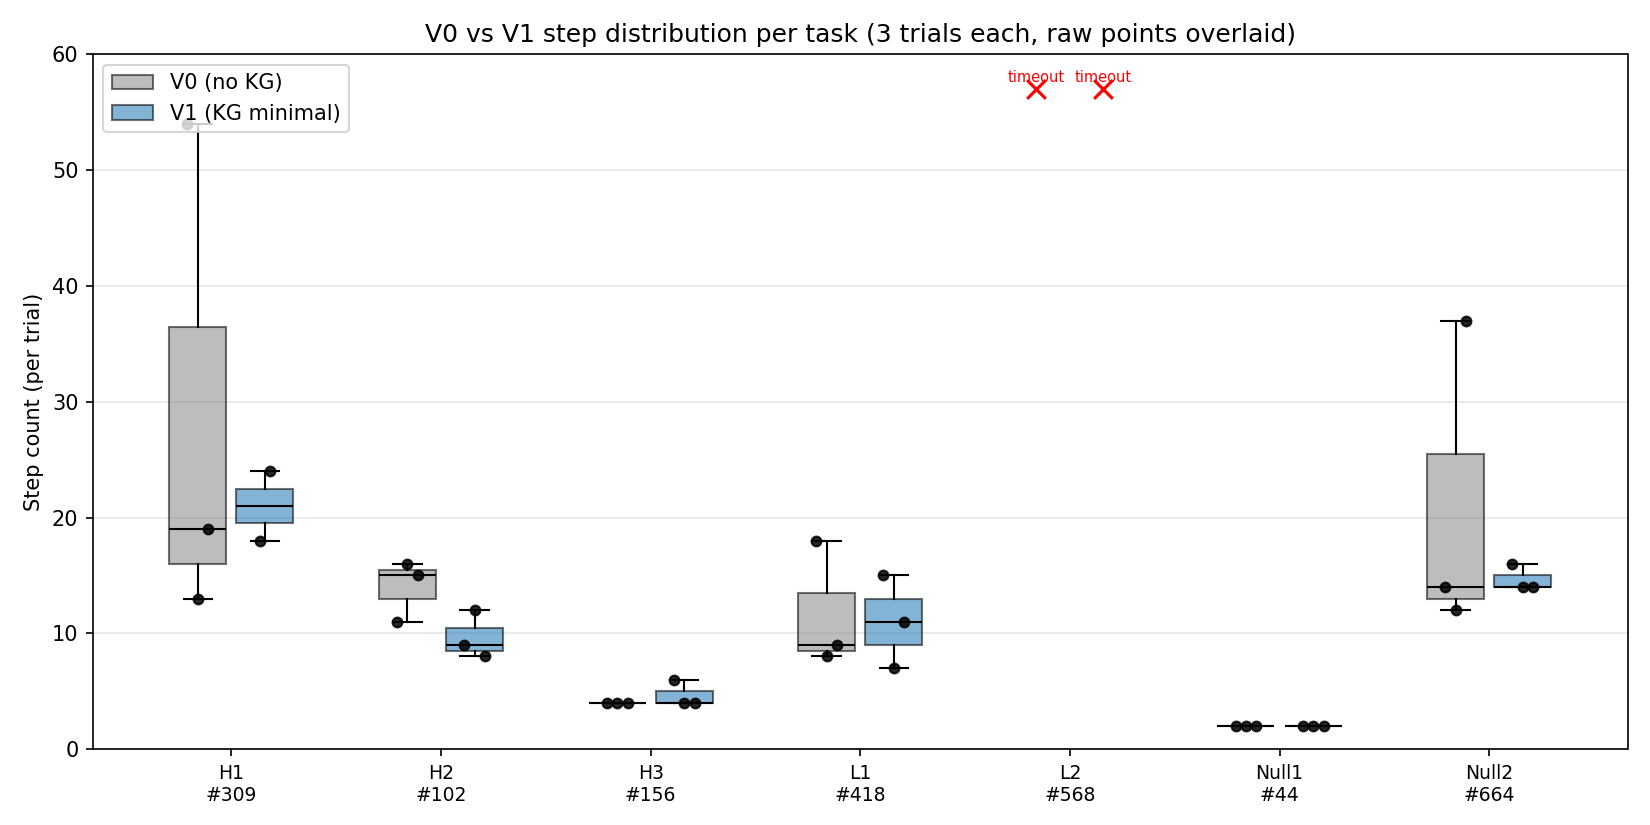
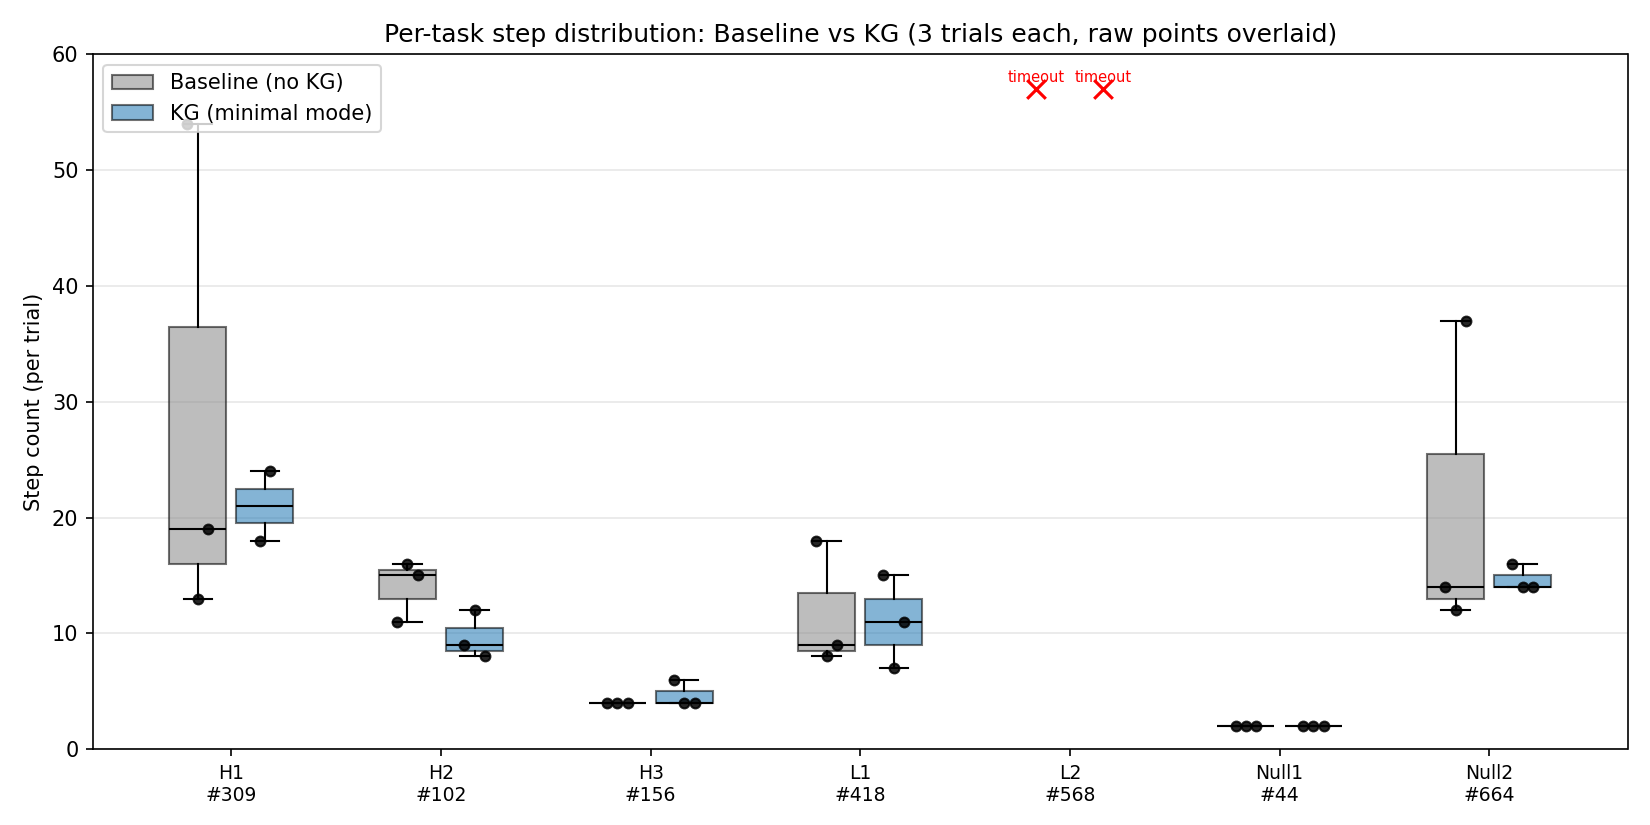
docs(paper)+eval: box plot legend를 Baseline/KG로 갱신 — 본문 변종명 일치
- render_figures.py의 box plot 범례 "V0 (no KG) / V1 (KG minimal)" → "Baseline (no KG) / KG (minimal mode)"로 변경.
- 논문 본문이 V0/V1을 "기준 / KG"로 변경하면서 figure만 옛 라벨로 남아 불일치이던 것 수정.
- matplotlib 한글 폰트 의존을 피하기 위해 figure 라벨은 영문 유지, paper §4.4 caption에 "회색=기준, 파랑=KG" 한국어 매핑 명시.

Changed region(s): [[0.2164, 0.0303, 0.8036, 0.0606], [0.0927, 0.0909, 0.2473, 0.1515]]

diff --git a/scripts/eval/render_figures.py b/scripts/eval/render_figures.py
@@ -242,10 +242,10 @@ def render_step_box_plot(cells: dict, out_path: Path) -> None:
     ax.set_xticks(range(len(conditions)))
     ax.set_xticklabels(labels, fontsize=9)
     ax.set_ylabel("Step count (per trial)")
-    ax.set_title("V0 vs V1 step distribution per task (3 trials each, raw points overlaid)")
+    ax.set_title("Per-task step distribution: Baseline vs KG (3 trials each, raw points overlaid)")
     legend_elements = [
-        Patch(facecolor="#888", alpha=0.55, edgecolor="black", label="V0 (no KG)"),
-        Patch(facecolor="#1f77b4", alpha=0.55, edgecolor="black", label="V1 (KG minimal)"),
+        Patch(facecolor="#888", alpha=0.55, edgecolor="black", label="Baseline (no KG)"),
+        Patch(facecolor="#1f77b4", alpha=0.55, edgecolor="black", label="KG (minimal mode)"),
     ]
     ax.legend(handles=legend_elements, loc="upper left")
     ax.grid(True, axis="y", alpha=0.3)
